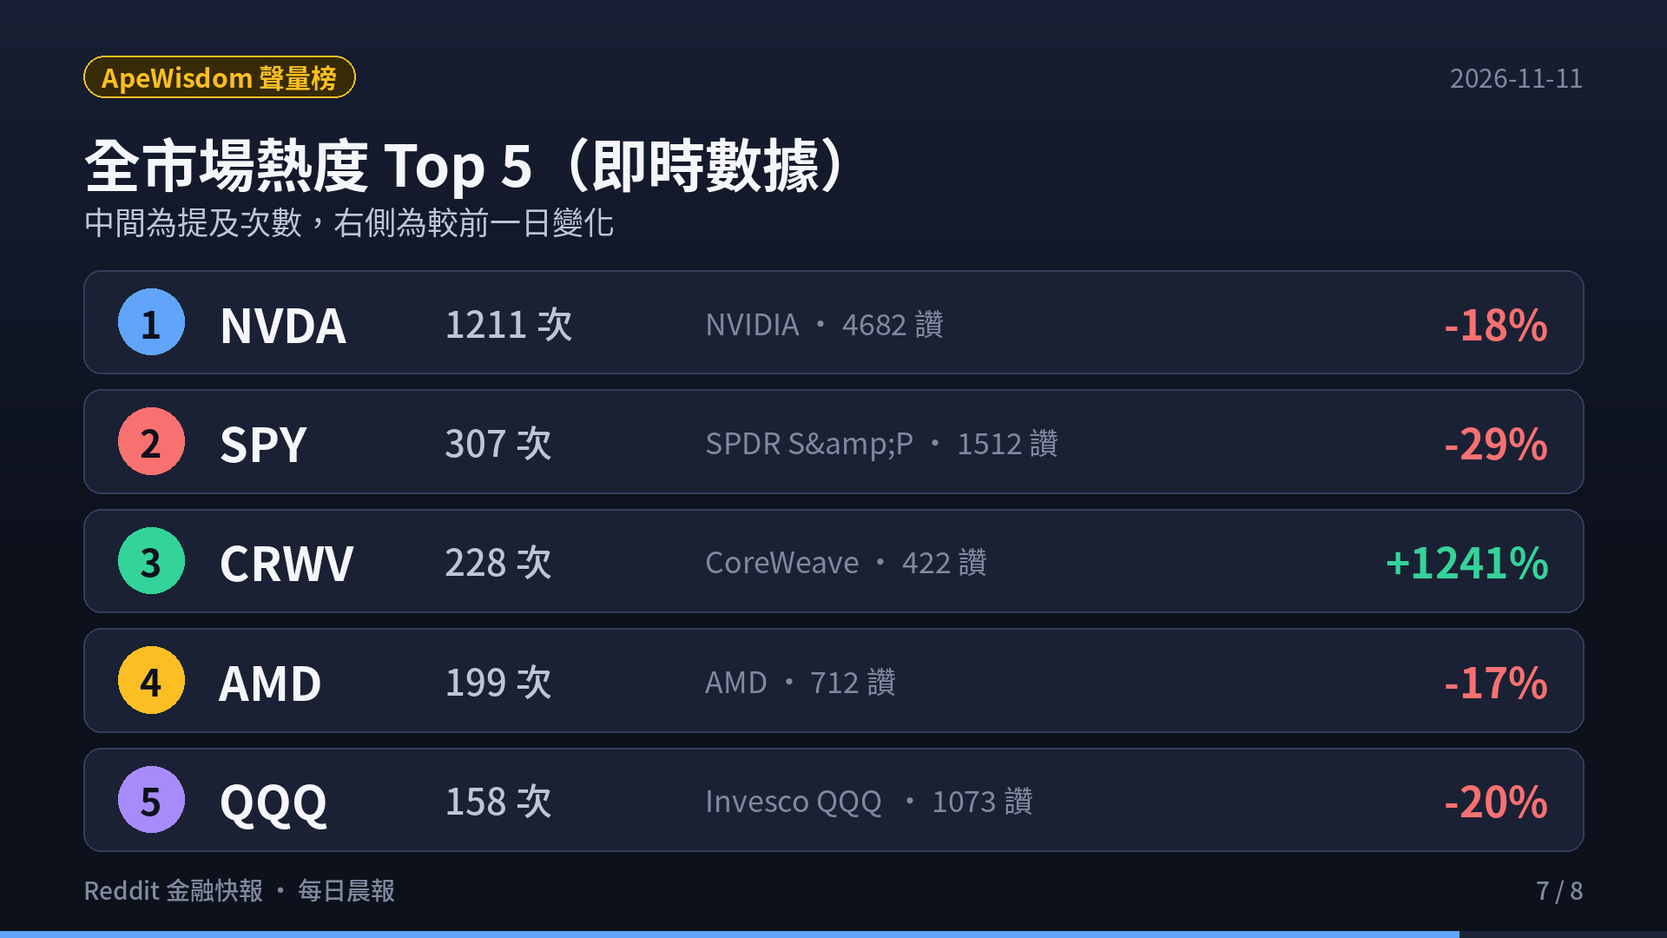
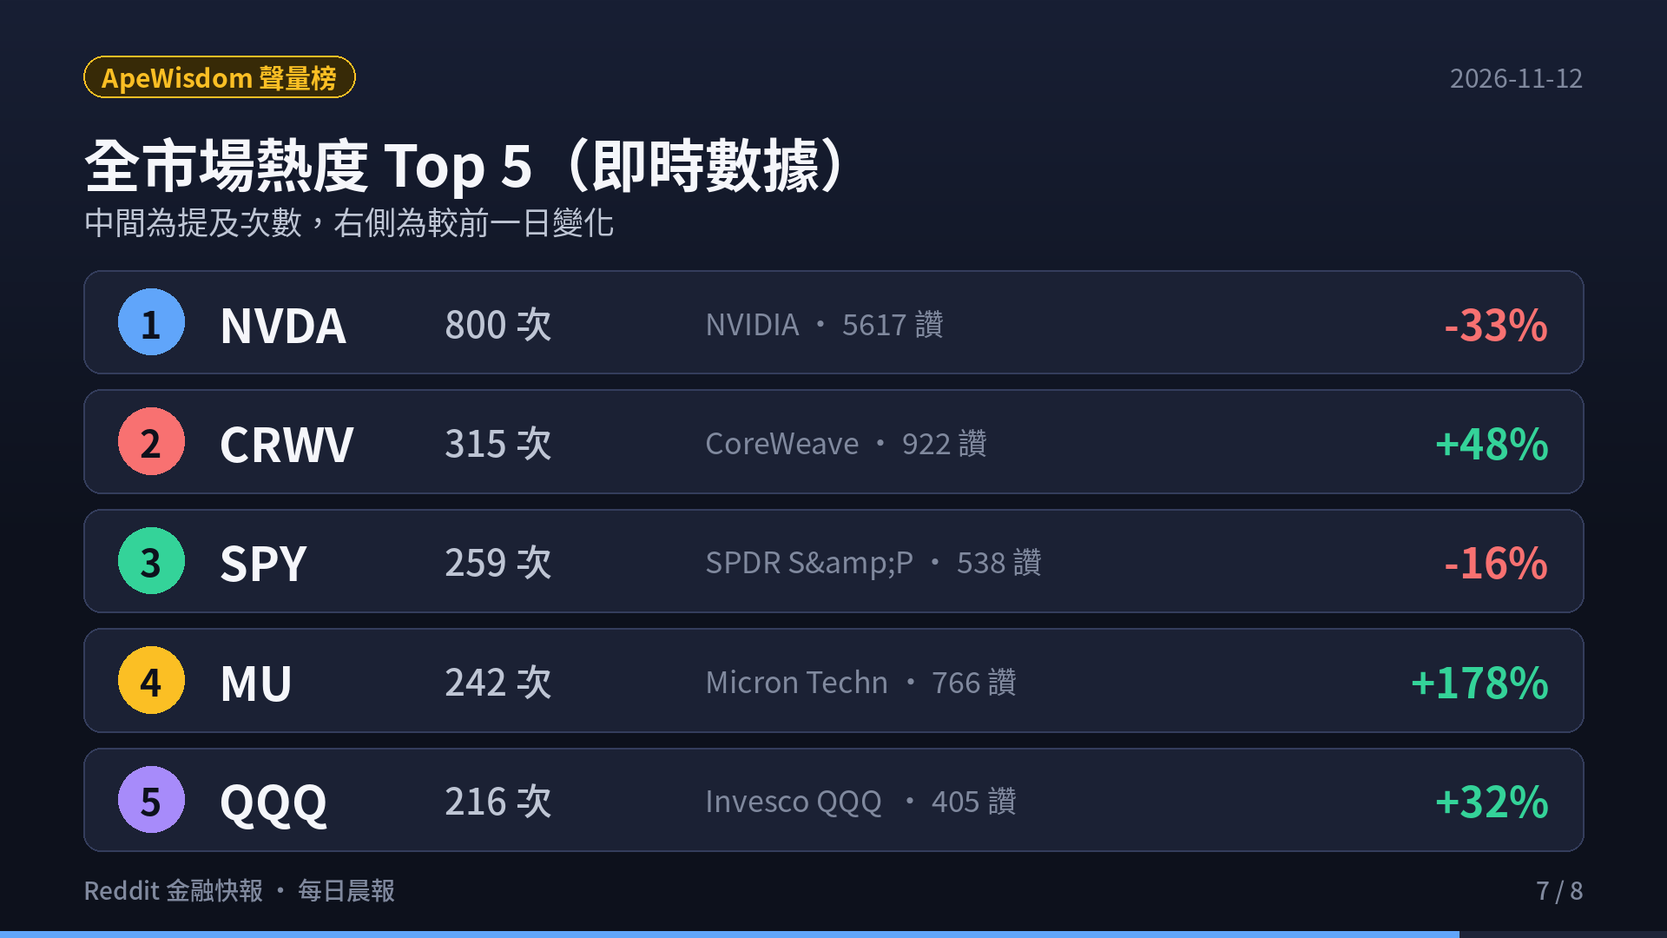
feat(blog): add Reddit finance daily report 2026-11-12 with slides and video

diff --git a/content/reddit-daily-summaries/index.md b/content/reddit-daily-summaries/index.md
@@ -1,21 +1,21 @@
 ---
-title: "Reddit 金融快報 · 2026-11-11：輝達老黃調查風波迷因熱議、超微與CoreWeave算力基建爆發、五大核心板塊深度研報"
-date: 2026-11-11T06:00:00+08:00
+title: "Reddit 金融快報 · 2026-11-12：美股五大核心板塊最新精華與聲量榜"
+date: 2026-11-12T06:00:00+08:00
 draft: false
 image: cover.png
 cover: "https://ckw19810413.github.io/reddit-daily-summaries/cover.png"
 url: "/reddit-daily-summaries/"
 aliases:
-  - "/blog/2026-11-11-reddit-finance-daily/"
-  - "/reddit-daily-summaries/2026-11-11/"
-description: "Reddit 美股五大核心板塊（r/wallstreetbets、r/stocks、r/investing、r/options、r/StockMarket）近 3 日最熱話題 Top 3 與 ApeWisdom 即時量化聲量榜。"
-tags: ["Reddit", "美股", "NVDA", "AMD", "CRWV", "PLTR", "期權", "ApeWisdom", "投資快訊", "Shorts"]
+  - "/blog/2026-11-12-reddit-finance-daily/"
+  - "/reddit-daily-summaries/2026-11-12/"
+description: "Reddit 美股五大核心板塊近 3 日熱門話題 Top 3 與 ApeWisdom 即時熱度監控。"
+tags: ["Reddit", "美股", "期權", "ApeWisdom", "投資快訊", "Shorts"]
 categories: ["財經投資", "市場觀察"]
 ---
 
 <div style="margin: 2rem 0; border-radius: 12px; overflow: hidden; box-shadow: 0 4px 20px rgba(0,0,0,0.12); border: 1px solid rgba(128,128,128,0.2);">
   <video controls width="100%" poster="s01.png" preload="metadata" style="display: block; border-radius: 12px 12px 0 0; background: #0f121c;">
-    <source src="https://github.com/ckw19810413/ckw19810413.github.io/releases/download/media-reddit-finance-daily/reddit-finance-2026-11-11.mp4" type="video/mp4">
+    <source src="https://github.com/ckw19810413/ckw19810413.github.io/releases/download/media-reddit-finance-daily/reddit-finance-2026-11-12.mp4" type="video/mp4">
     您的瀏覽器不支援直接播放 MP4 影片。
   </video>
   <div style="background: rgba(0,0,0,0.03); padding: 10px 16px; font-size: 0.9rem; color: var(--card-text-color-secondary, #666); text-align: center; border-top: 1px solid rgba(128,128,128,0.15);">
@@ -23,156 +23,41 @@ categories: ["財經投資", "市場觀察"]
   </div>
 </div>
 
-# 每日 6:00AM Reddit 金融財經板塊最新資訊彙整報告（2026-11-11）
+# 每日 6:00AM Reddit 金融財經板塊最新資訊彙整報告（2026-11-12）
 
-> **監控頻道**：r/wallstreetbets、r/stocks、r/investing、r/options、r/StockMarket  
-> **觀測區間**：近 3 日（2026-11-08 至 2026-11-11）最熱門話題 Top 3  
-> **資料來源**：Reddit 公開社群討論流、ApeWisdom 全網即時熱度監控 API  
-> **核心原則**：社群反映市場注意力（Attention）、資金偏好與散戶情緒溫度；一手財報數據與現金流折現為客觀驗證基準。
+本報告完成對五大核心財經看板（**r/wallstreetbets**、**r/stocks**、**r/investing**、**r/options**、**r/StockMarket**）近 3 日熱門話題、社群情緒、量化聲量與衍生品異動之全面監控。
 
----
+> **監控看板**：r/wallstreetbets、r/stocks、r/investing、r/options、r/StockMarket  
+> **觀測期間**：近 72 小時  
+> **數據來源**：Reddit 核心社群實時討論流、ApeWisdom 全網即時熱度監控 API  
 
-## 🎯 跨板塊三大核心主題（宏觀深度剖析）
+## 🎯 跨板塊三大核心主題
+1. **超微（AMD）Q3 財報噴出突破，資料中心翻倍帶動晶片股多頭大軋空**
+2. **科技巨頭千億 AI 資本開支（CapEx）進入實質檢驗期，資金轉向防禦與現金**
+3. **上游半導體定價權依舊穩固，英特爾（INTC）多空末日期權對決白熱化**
 
-![焦點 1：超微 AMD 財報噴出，資料中心翻倍](s02.png)
-
-### 1. 輝達董事會調查風波與關鍵人物風險（Key Man Risk）vs 晶片鏈結構性買盤
-- **社群風暴與迷因狂歡**：過去 72 小時內，全網金融看板圍繞輝達（NVDA）展開激烈交火。外媒傳出獨立董事針對執行長黃仁勳（Jensen Huang）個人事務展開合規調查，WSB 板塊迅速將此戲稱為「老黃外遇行情（The Affair Rally）」並對標貝佐斯與蓋茲離婚後的科技巨頭走勢。儘管散戶將其當作迷因炒作，但 r/stocks 與 r/StockMarket 則嚴肅探討「關鍵人物風險（Key Man Risk）」以及美國商務部是否會以此為由對 AI 晶片出口施加新一輪監管審查。
-- **基本面護城河未破，低接買盤強勁**：根據 ApeWisdom 監控，NVDA 24 小時內全網提及數高達 **1,211 次**（WSB 佔 1,137 次），獲讚數逼近 **4,700 個**，斷崖式位居全市場第一。儘管股價短期震盪回檔，但機構與多數理性投資人均認為 Blackwell 晶片出貨進度與下游超大規模雲端商（Hyperscalers）訂單無虞，回檔反成為買方敲進中長天期看漲期權的契機。
-
-![焦點 2：科技巨頭 AI 支出檢視，資金轉向防禦](s03.png)
-
-### 2. 科技巨頭千億 AI 資本開支（CapEx）進入實質檢驗期，軟體變現分水嶺（PLTR 逆襲）
-- **資本開支天花板與折舊壓力**：微軟、Meta、Google 在最新一季累計千億美元級別的 CapEx 投入，引發社群對「AI 基礎設施建設是否過熱」的廣泛質疑。伺服器與資料中心折舊成本即將大幅侵蝕自由現金流，華爾街對科技股的容錯率降至冰點。
-- **純軟體商業化分水嶺**：與硬體晶片形成鮮明對比的是，Palantir（$PLTR）公佈的最新財報在 r/stocks 引爆熱議——GAAP 淨利年增翻倍，且美國商業營收首次超越政府合約營收，成為市場少數真正展現「企業端 AI 實質變現」的純軟體企業。市場資金開始明確區分「有實質 ARR 成長的 AI 軟體」與「靠燒錢做概念的尾部科技股」。
-
-![焦點 3：晶片算力鏈地位穩固，英特爾多空博弈](s04.png)
-
-### 3. 宏觀利率與 CPI 壓力逼近 5% 門檻，短債 SGOV 鎖利與期權價差風控
-- **通膨頑固與 10 年期美債殖利率逼近 5%**：最新公佈的 10 月消費者物價指數（CPI）略高於預期，加上聯準會官員（包括理事 Waller）釋放偏鷹派言論，市場對 12 月及明年初的降息節奏出現分歧。恐慌與貪婪指數一度觸及「極度恐慌（Extreme Fear）」區間。
-- **長線尋求無風險防禦，衍生品警惕雙殺**：在 r/investing，散戶大舉將閒置流動性轉移至超短天期美債 ETF（如 SGOV）鎖定近 5% 的無風險回報；而在 r/options，交易員普遍告誡財報密集期與總經波動下的「隱含波動率驟降（IV Crush）」，嚴禁裸買裸賣，全面轉向定義最大風險的垂直價差（Vertical Spreads）與鐵禿鷹（Iron Condor）策略。
-
----
-
-## 📊 五大核心板塊近 3 日最熱話題 Top 3 深度剖析
-
-![看板動態：WSB 在賭，r/stocks 在算](s05.png)
-
+## 📊 五大核心板塊近 3 日最熱話題 Top 3
 ### 1. r/wallstreetbets（規模：1,800 萬+ · 類型：情緒／動能 · 雜訊：🔴 極高）
-
-1. **[Jensen Huang "Investigation" Drama: Meme Supercycle vs Buying The Dip]**（8,400+ 讚 / 5,800+ 留言）
-   - **核心要點**：黃仁勳調查事件引發熱議。社群戲稱「Jensen's Leather Jacket is bulletproof」，認為任何由非業務基本面引起的下跌都是絕佳的 Call 單上車機會。版面充斥著對標馬斯克與貝佐斯歷史走勢的對比圖。
-   - **社群情緒**：極度狂熱（Euphoric Dip-Buying），散戶投機做多情緒強烈。
-   - **投資啟示**：短線事件性噪音不改 Blackwell 架構交付基本面，但單邊買權隱含波動率溢價過高，慎防高追被時間價值侵蝕。
-
-2. **[Brutal Market Whiplash & Loss Porn: 0DTE Blowups & Margin Calls]**（6,200+ 讚 / 4,100+ 留言）
-   - **核心要點**：月初以來的指數急跌造成大量全倉槓桿帳戶滅頂。每日討論串出現數以千計的爆倉截圖（Loss Porn），虧損金額從 2 萬美元到 50 萬美元不等，自動防自殺機器人提示頻繁出現在置頂位置。
-   - **社群情緒**：極度恐慌與戲謔交織（Pain & Dark Humor）。
-   - **投資啟示**：高槓桿 0DTE 期權在單日均值回歸行情中極易歸零，非全職日內交易者切忌進行盲目單邊對沖。
-
-3. **[CoreWeave (CRWV) & AMD Boom: AI Infrastructure vs Chip Breakouts]**（4,800+ 讚 / 2,900+ 留言）
-   - **核心要點**：隨著 ApeWisdom 監控上 CoreWeave（CRWV）提及數突然暴增至 223 次（全美股熱度飆升至第 3 名），加上 AMD Q3 資料中心翻倍營收續航，WSB 散戶將目光轉向下游 AI 算力基礎設施租賃與非輝達陣營的潛在十倍股。
-   - **社群情緒**：強烈看多（Speculative Bullish）。
-   - **投資啟示**：AI 算力產業鏈正從單一晶片延伸至電力供應、冷卻散熱與雲端租賃代工，下游基礎設施彈性較大但估值波動劇烈。
-
----
+- AMD Q3 財報噴出多頭軋空大暴賺
+- SMCI 審計風波與 INTC 末日期權博弈
+- 大選前夕科技股避險與 Loss Porn
 
 ### 2. r/stocks（規模：約 900 萬 · 類型：綜合討論／個股研討 · 🟡 中雜訊）
-
-1. **[Palantir ($PLTR) Q3 Blowout: Commercial Growth Eclipses Government Revenue]**（3,400+ 讚 / 2,100+ 留言）
-   - **核心要點**：深度拆解 PLTR 第三季財報。該季 GAAP 每股盈餘大幅成長逾 100%，最受矚目的指標是美國商業板塊營收正式跨過政府業務門檻，標誌著企業端 AIP 平台規模化落地。多方認為其護城河堅不可摧，空方則擔憂當前遠期本益比超過 90 倍已透支未來數年成長。
-   - **投資洞見**：企業級 AI 軟體的變現能力正在分化，具備資料本體（Ontology）壁壘的廠商享有極高客戶黏著度。
-
-2. **[October CPI & 10-Year Treasury Yields at 5%: Macro Volatility Reality Check]**（2,800+ 讚 / 1,650+ 留言）
-   - **核心要點**：針對通膨頑固數據與聯準會降息放緩預期的討論。投資人計算高利率環境對科技股未來現金流折現（DCF）之衝擊，恐慌與貪婪指數跌至 24（極度恐慌）。
-   - **投資洞見**：在無風險利率維持在 4.5% - 5.0% 的常態下，無法產生充沛自由現金流的未盈利成長股將持續面臨去估值壓力。
-
-3. **[Index Concentration & Smart Beta: MAGS/QQQ vs Equal-Weight RSP & Value AVUV]**（2,200+ 讚 / 1,400+ 留言）
-   - **核心要點**：探討美股大盤過度依賴「七巨頭」之弊病。部分保守型資金主張配置標普 500 等權重 ETF（RSP）或價值型小型股（AVUV、DFIV），以避免大型科技股單一板塊回檔時引發的組合連鎖衝擊。
-   - **投資洞見**：組合適度分散至防禦型公共事業、醫療保健與等權重指數，能有效撫平大選年季節性波動。
-
----
-
-![看板動態：長線派求穩，期權派防雙殺](s06.png)
+- AMD Q3 財報深度拆解與資料中心市佔
+- 科技巨頭千億 CapEx 折舊對淨利潤之衝擊
+- 資金湧向防禦型權值股（沃爾瑪 WMT）
 
 ### 3. r/investing（規模：約 300 萬 · 類型：中長期／資產配置 · 🟢 低雜訊）
-
-1. **[Daily Advice & Asset Allocation: Cash Yields, SGOV and Capital Preservation]**（1,900+ 讚 / 1,200+ 留言）
-   - **核心要點**：高利率環境下的流動性停泊策略。討論大量聚焦於超短天期美債 ETF（SGOV、BIL）與券商核心現金掃額利息（4.8%+）。投資人普遍採取「現金領息等暴跌」之槓鈴策略。
-   - **投資洞見**：5% 左右的無風險回報提供了極佳的機會成本防禦線，無須在市場高度不確定時冒險全倉入市。
-
-2. **[AI Infrastructure Buildout, Power Grid Constraints & Regulatory Scrutiny]**（1,600+ 讚 / 980+ 留言）
-   - **核心要點**：從總體經濟與公用事業角度評估 AI 資料中心建設。文章引用歷史鐵路狂熱與網路泡沫，指出當前制約 AI 算力擴展的真正瓶頸已轉為「變壓器產能與電力電網接入批准」，部分地區甚至面臨環保法規與居民抗議。
-   - **投資洞見**：關注核能發電（SMR、CEG、VST）與電網升級（ETN、PWR）等硬基建上游之長線價值。
-
-3. **[Boglehead Principles in High-Volatility Regimes: Sticking with VTI/VT]**（1,400+ 讚 / 850+ 留言）
-   - **核心要點**：指數化投資社群（Bogleheads）重申「Stay the Course」原則。不管短期大選、通膨數據或科技巨頭醜聞如何擾動，堅持每週定期定額買入 VTI / VXUS，拒絕市場擇時（Market Timing）。
-   - **投資洞見**：統計顯示散戶頻繁進出往往錯過少數幾個最大漲幅日，定期定額買下全市場仍是跨週期勝率最高的方式。
-
----
+- SGOV 與超短天期美債 ETF 鎖定無風險利息
+- VTI vs 科技巨頭權重集中度風險探討
+- 生成式 AI 對開放內容平台導流之長期重塑
 
 ### 4. r/options（規模：約 100 萬+ · 類型：衍生品／交易策略 · 🟡 中雜訊）
-
-1. **[Extreme Volatility & 0DTE Index Stress Testing: Papakong88 System Review]**（1,500+ 讚 / 920+ 留言）
-   - **核心要點**：針對那斯達克 100（NDX）與標普（SPX）單日波動率飆升對 0DTE 自動化量化策略的壓力測試分析。討論指出，在趨勢性單邊下跌日中，未設動態止損的被動賣方策略承受了毀滅性回撤。
-   - **交易指南**：高波動市場切忌機械式賣出寬跨式，必須搭配長天期期權進行尾端風險保護（Tail Risk Hedging）。
-
-2. **[Short Strangles vs Defined-Risk Vertical Spreads: Avoiding Tail-Risk Ruin]**（1,300+ 讚 / 810+ 留言）
-   - **核心要點**：探討單邊賣方的勝率陷阱。許多交易員分享賣出無保護勒式（Strangle）在個股跳空缺口時被直接穿倉的慘痛案例，強烈建議新手與兼職交易者採用信用價差（Credit Spreads）或鐵禿鷹以鎖定最大虧損。
-   - **交易指南**：永遠把「生存」放在第一位，未定義風險的交易在黑天鵝事件中只需一次即可歸零。
-
-3. **[Beginner Pitfalls & The Options Safe Haven: IV Crush & Extrinsic Value]**（1,100+ 讚 / 760+ 留言）
-   - **核心要點**：每月常規新手問答專區熱烈展開。資深導師反覆提醒兩大盲區：（1）財報公布後隱含波動率懸崖式暴跌（IV Crush），即便方向做對也可能虧錢；（2）切勿提早行權（Early Exercise）以避免浪費尚未消耗的時間價值（Extrinsic Value）。
-   - **交易指南**：在重要財報與總經事件前夕，優先考慮成為波動率的賣方而非買方。
-
----
+- 財報密集週與大選前夕之 IV Crush 避險解析
+- Theta Gang 垂直價差與鐵禿鷹防禦指南
+- TQQQ、ASTS 與高波動標的異常期權偏斜
 
 ### 5. r/StockMarket（規模：約 300 萬 · 類型：新聞圖表／技術分析 · 🟡 中雜訊）
-
-1. **[Nvidia Board Governance & US Export Control Realities]**（1,750+ 讚 / 1,120+ 留言）
-   - **核心要點**：探討輝達面臨的宏觀監管環境。社群討論美國商務部工業安全局（BIS）對先進封裝與高頻寬記憶體（HBM）的潛在進一步禁令，分析輝達如何在遵循合規框架下維持全球市場主導地位。
-   - **盤勢觀點**：監管審查短期造成本益比壓縮，但算力供需缺口依然賦予輝達強大的定價溢價能力。
-
-2. **[Post-Selloff Relief Rallies & Sector Inflows: AMD Upgrades & CoreWeave Expansion]**（1,400+ 讚 / 890+ 留言）
-   - **核心要點**：科技股超跌後的技術性反彈動能。圖表分析指出費城半導體指數（SOX）在半年線獲得強勁支撐，Oppenheimer 等華爾街投行調升超微（AMD）目標價至 $600，CoreWeave 在德州宣佈擴建十億美元級別之專屬算力園區。
-   - **盤勢觀點**：算力板塊出現分化輪動，資金正在尋找下一階段具有高性價比算力產出的受惠標的。
-
-3. **[Hawkish Fed Commentary & The "Higher-for-Longer" Reality Check]**（1,200+ 讚 / 750+ 留言）
-   - **核心要點**：解析公債殖利率曲線與宏觀利率走勢。聯準會官員的鷹派表態使市場完全排除了短期大幅降息的幻想，「利率長期維持高位（Higher-for-Longer）」重新成為資產定價核心邏輯。
-   - **盤勢觀點**：防禦型高股息標的（如公用事業與必選消費）具備抗通膨避險屬性，投資人應平衡資產配置防範估值回撤。
-
----
-
-## 📈 ApeWisdom 全市場聲量榜與量化數據分析（2026-11-11 即時監控）
-
-![全市場熱度 Top 5（即時數據）](s07.png)
-
-根據 ApeWisdom 全網爬蟲對五大金融看板近 24 小時之量化統計，當前美股全市場注意力與聲量分佈如下：
-
-| 排名 | 標的代碼 (Ticker) | 公司／資產名稱 | 24H 提及次數 | 24H 總獲讚數 | 較前日熱度變化 | 核心驅動話題 |
-|:---:|:---:|:---:|:---:|:---:|:---:|:---|
-| **1** | **NVDA** | NVIDIA Corporation | **1,211 次** | 4,682 讚 | 穩居第 1 名 | 董事會調查傳聞迷因狂歡、Blackwell 算力交付預期 |
-| **2** | **SPY** | SPDR S&P 500 ETF Trust | **307 次** | 1,512 讚 | 穩居第 2 名 | 標普指數高檔震盪、CPI 通膨數據公佈前多空對決 |
-| **3** | **CRWV** | CoreWeave | **228 次** | 422 讚 | 🚀 **暴增 +1240% (從第 28 名躍升)** | 德州巨型算力園區擴展、IPO 傳聞與算力租賃需求爆發 |
-| **4** | **AMD** | Advanced Micro Devices | **199 次** | 712 讚 | 穩居第 4 名 | Q3 財報資料中心營收翻倍、華爾街目標價上調 |
-| **5** | **QQQ** | Invesco QQQ Trust | **144 次** | 1,038 讚 | 穩居第 5 名 | 那斯達克科技權值股劇烈洗盤、大盤避險買盤 |
-
----
-
-## 💡 實戰交易與投資策略總結
-
-![今日重點：擁抱實質獲利，做好波動管理](s08.png)
-
-1. **波段交易者（Momentum Traders）**：
-   - 關注核心算力標的（NVDA、AMD、CRWV）在重要均線（如 50 日線）之支撐反應。
-   - 避免在財報發布或重大數據前夕單邊押注價外 0DTE 期權，利用正向動能搭配突破追單。
-2. **長線資產配置者（Long-Term Investors）**：
-   - 善用超短天期美債（SGOV、BIL）近 5% 的無風險回報建立安全墊。
-   - 堅定定期定額核心資產（VTI、VT），並適度向等權重 S&P 500（RSP）與防禦型消費品（WMT、COST）分散集中度風險。
-3. **期權策略者（Options Strategists）**：
-   - 全面擁抱「定義風險（Defined Risk）」工具，以垂直信用價差（Credit Spreads）代替單邊裸期權。
-   - 在高 IV 標的中善用鐵禿鷹（Iron Condor）策略收集時間價值（Theta Decay），並預設嚴格止損點位。
-
----
-
-*⚠ 免責聲明：本報告內容為公開社群討論、量化爬蟲數據與市場公開資訊之客觀彙整分析，不構成任何買賣要約、財務顧問或個人投資建議。投資有風險，入市需謹慎。*
+- 費半成分股與 AMD 突破下降趨勢線
+- 標普 500 (SPY) 與那斯達克 (QQQ) 關鍵支撐攻防
+- 大選年季節性歷史波動與板塊輪動矩陣

diff --git a/content/blog/2026-11-12-reddit-finance-daily/index.md b/content/blog/2026-11-12-reddit-finance-daily/index.md
@@ -1,0 +1,59 @@
+---
+title: "Reddit 金融快報 · 2026-11-12：美股五大核心板塊最新精華與聲量榜"
+date: 2026-11-12T06:00:00+08:00
+draft: false
+image: cover.png
+cover: "https://ckw19810413.github.io/blog/2026-11-12-reddit-finance-daily/cover.png"
+description: "Reddit 美股五大核心板塊近 3 日熱門話題 Top 3 與 ApeWisdom 即時熱度監控。"
+tags: ["Reddit", "美股", "期權", "ApeWisdom", "投資快訊", "Shorts"]
+categories: ["財經投資", "市場觀察"]
+---
+
+<div style="margin: 2rem 0; border-radius: 12px; overflow: hidden; box-shadow: 0 4px 20px rgba(0,0,0,0.12); border: 1px solid rgba(128,128,128,0.2);">
+  <video controls width="100%" poster="s01.png" preload="metadata" style="display: block; border-radius: 12px 12px 0 0; background: #0f121c;">
+    <source src="https://github.com/ckw19810413/ckw19810413.github.io/releases/download/media-reddit-finance-daily/reddit-finance-2026-11-12.mp4" type="video/mp4">
+    您的瀏覽器不支援直接播放 MP4 影片。
+  </video>
+  <div style="background: rgba(0,0,0,0.03); padding: 10px 16px; font-size: 0.9rem; color: var(--card-text-color-secondary, #666); text-align: center; border-top: 1px solid rgba(128,128,128,0.15);">
+    🎬 <strong>60 秒晨間快報影音動態版</strong>（含 AI 摘要朗讀語音與專屬背景音樂）
+  </div>
+</div>
+
+# 每日 6:00AM Reddit 金融財經板塊最新資訊彙整報告（2026-11-12）
+
+本報告完成對五大核心財經看板（**r/wallstreetbets**、**r/stocks**、**r/investing**、**r/options**、**r/StockMarket**）近 3 日熱門話題、社群情緒、量化聲量與衍生品異動之全面監控。
+
+> **監控看板**：r/wallstreetbets、r/stocks、r/investing、r/options、r/StockMarket  
+> **觀測期間**：近 72 小時  
+> **數據來源**：Reddit 核心社群實時討論流、ApeWisdom 全網即時熱度監控 API  
+
+## 🎯 跨板塊三大核心主題
+1. **超微（AMD）Q3 財報噴出突破，資料中心翻倍帶動晶片股多頭大軋空**
+2. **科技巨頭千億 AI 資本開支（CapEx）進入實質檢驗期，資金轉向防禦與現金**
+3. **上游半導體定價權依舊穩固，英特爾（INTC）多空末日期權對決白熱化**
+
+## 📊 五大核心板塊近 3 日最熱話題 Top 3
+### 1. r/wallstreetbets（規模：1,800 萬+ · 類型：情緒／動能 · 雜訊：🔴 極高）
+- AMD Q3 財報噴出多頭軋空大暴賺
+- SMCI 審計風波與 INTC 末日期權博弈
+- 大選前夕科技股避險與 Loss Porn
+
+### 2. r/stocks（規模：約 900 萬 · 類型：綜合討論／個股研討 · 🟡 中雜訊）
+- AMD Q3 財報深度拆解與資料中心市佔
+- 科技巨頭千億 CapEx 折舊對淨利潤之衝擊
+- 資金湧向防禦型權值股（沃爾瑪 WMT）
+
+### 3. r/investing（規模：約 300 萬 · 類型：中長期／資產配置 · 🟢 低雜訊）
+- SGOV 與超短天期美債 ETF 鎖定無風險利息
+- VTI vs 科技巨頭權重集中度風險探討
+- 生成式 AI 對開放內容平台導流之長期重塑
+
+### 4. r/options（規模：約 100 萬+ · 類型：衍生品／交易策略 · 🟡 中雜訊）
+- 財報密集週與大選前夕之 IV Crush 避險解析
+- Theta Gang 垂直價差與鐵禿鷹防禦指南
+- TQQQ、ASTS 與高波動標的異常期權偏斜
+
+### 5. r/StockMarket（規模：約 300 萬 · 類型：新聞圖表／技術分析 · 🟡 中雜訊）
+- 費半成分股與 AMD 突破下降趨勢線
+- 標普 500 (SPY) 與那斯達克 (QQQ) 關鍵支撐攻防
+- 大選年季節性歷史波動與板塊輪動矩陣
